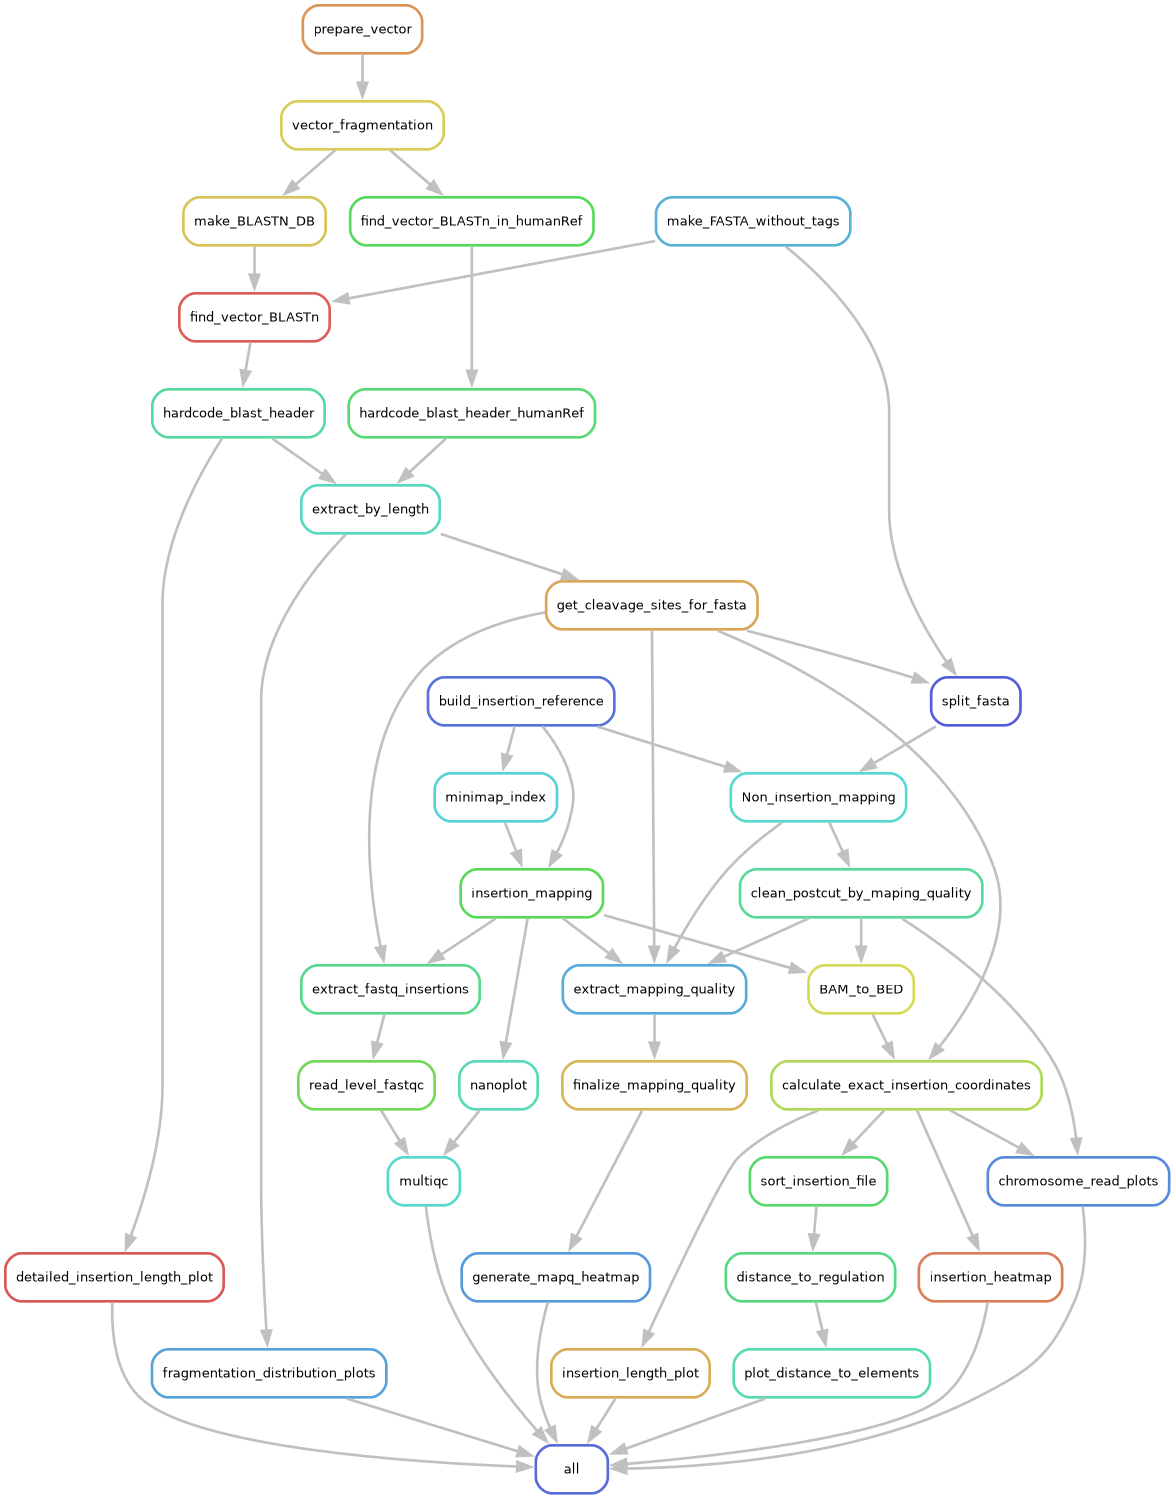
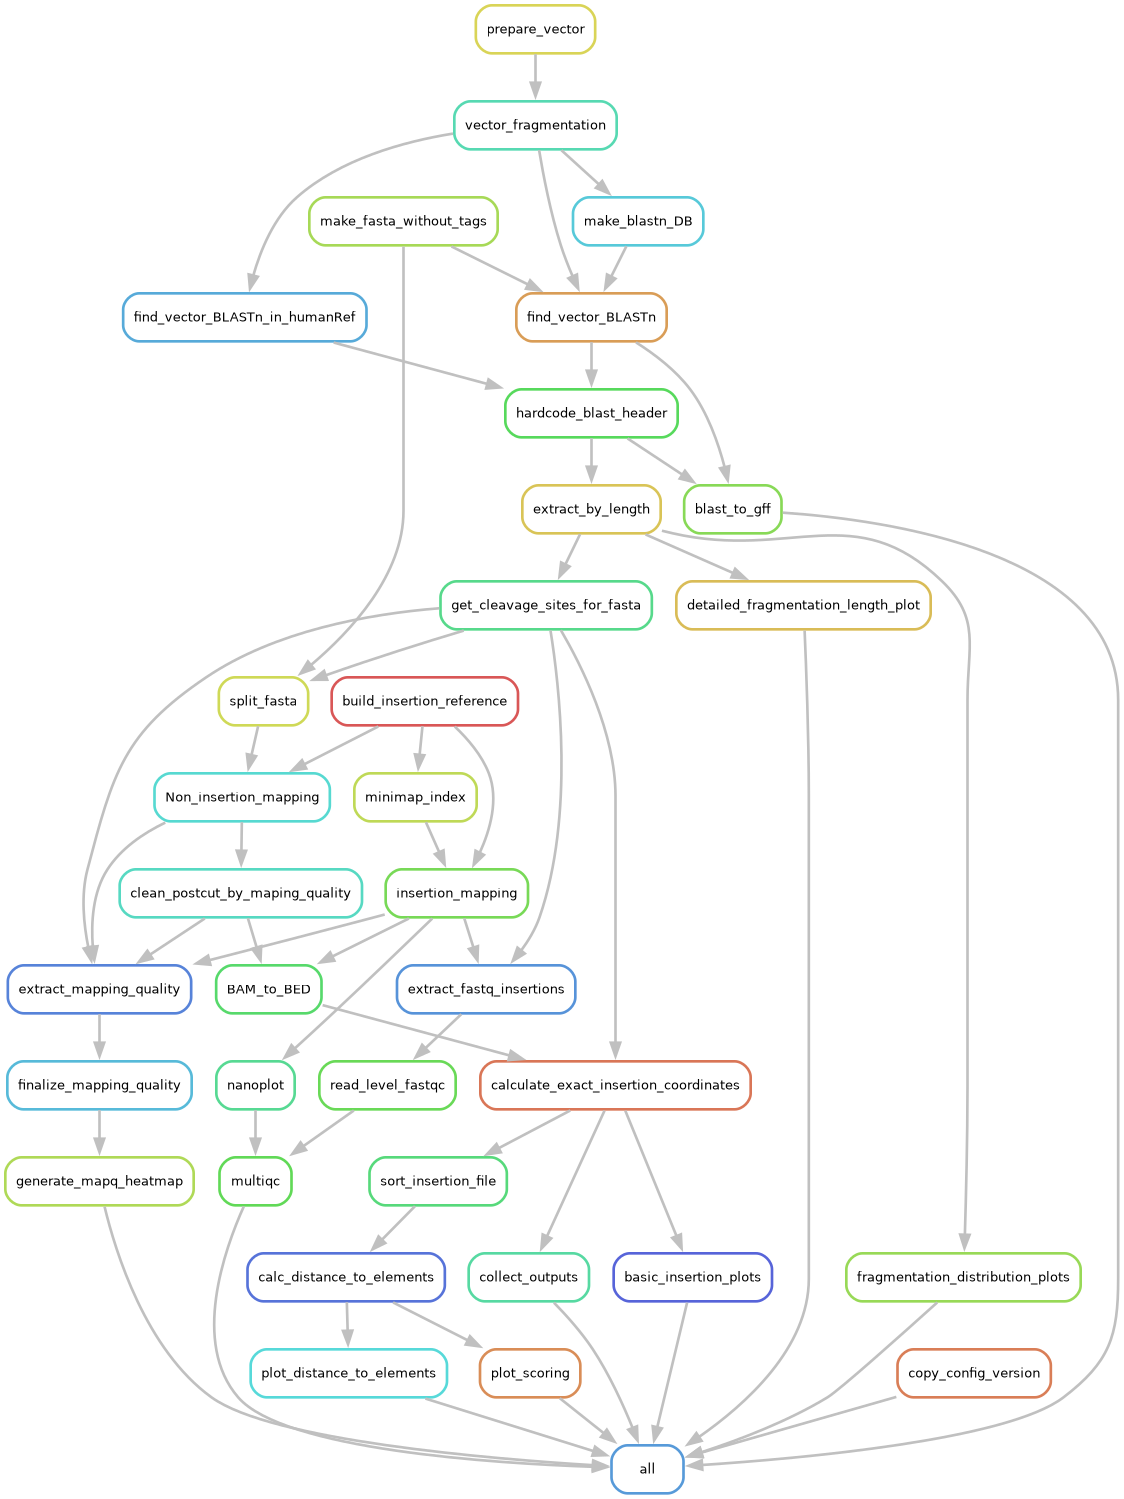
addiitons to the config and readme

Changed region(s): [[0.0, 0.0, 0.9964, 1.0], [0.5916, 0.491, 0.6228, 0.5217]]

diff --git a/workflow/scripts/VIS_helper_functions.py b/workflow/scripts/VIS_helper_functions.py
@@ -263,8 +263,8 @@ def split_fasta_by_borders(border_dict, fasta, mode, outfasta, outvector, logfil
                             print(record_seq_new)
                             record_id_new = str(record_id)+ '_Buffer'+str(len(buffer))+'Insertion'
                             output_file.write(">"+str(record_id_new)+"\n"+str(record_seq_new) + "\n")
-                        elif mode == "Separated":
-                            print("Separated mode selected: Insertion sequences are cut from the read and the read is split at the borders.")
+                        elif mode == "Split":
+                            print("Split mode selected: Insertion sequences are cut from the read and the read is split at the borders.")
                             print("Insertion coordinates will be reported as surrounding read coordinates.")
                             #this part only if the non-insertion fragments should NOT be combined
                             for i,entry in enumerate(record_list):

diff --git a/README.md b/README.md
@@ -1,0 +1,278 @@
+# Logo with the name
+#github action buttons via snakemake unit tests
+# Vector Insertion Site Detection Pipeline
+> This is a snakemake workflow for the guided-search for long insertion sequences (e.g. CAR vectors) in long-read DNA Sequencing data.
+
+## Table of Contents
+* [General Info](#general-information)
+* [Workflow](#workflow)
+* [Setup](#setup)
+    * [Pipeline](#Pipeline)
+    * [Config](#Config)
+* [Usage](#usage)
+* [Tutorial](#tutorial)
+* [Contact](#contact)
+* [License](#license)
+
+## General Information
+- Biological vector systems are widely used for the targeted expression of genes in biomedical research and therapies (e.g. CAR T cell therapy)
+- While insertion sites of different gene delivery systems are classified, there is no concise way to look for the inserted vector sequence and its exact sequence after the transduction
+- This pipeline fragments the target sequence of interest into n-sized bins and systematically locates consecutive and isolated vector fragments and their orientation in the long DNA reads
+- Furthermore, the insertion sites are located with respect to the reference genome of the underlying organism and, upon providing of annotations of the genome, closeness to transcription factors, genes, or other data sources can be used to annotate each insertion site
+- Especially CAR T cell therapy can benefit from such a detailed approach, since the T cells are introduced back into the patients after the transduction and potentially dangerous clones are thereby introduced to the patient. This might be one explanantion of the recent case reports regarding secondary T cell Lymphomas following CAR T cell therapy.
+
+## Workflow
+- Overview (create it in a more universal manner though!) + DAG
+- Illustration of the workflow
+
+---
+
+## Setup
+
+## Pipeline
+
+This snakemake workflow combines multiple standalone tools in a directed fashion. 
+
+Clone the github repo to your local machine via 
+
+    git clone https://github.com/YOUR-USERNAME/YOUR-REPOSITORY
+
+Then, proceed by one of the two ways: 
+
+### 1. Classic (snakemake best practices)
+
+The pipeline contains the option for an [integrated package management](https://snakemake.readthedocs.io/en/latest/snakefiles/deployment.html#integrated-package-management) functionality. 
+In other words, the workflow will be installing all required packages for each rule as needed.
+This means that we only need to install a lightweight environment ourselves to run the pipeline locally.
+
+**Note:** While the classical way of setting up the pipeline has the advantage of being lightweight in its installation of packagages, the actuall running of the pipeline will be a little more complicated and might require additional modifications depending on your local setup of `conda`/`mamba`. For this reason, we also provide a convenient alternative which works by installing all packages needed for the pipeline in one environment (see below).
+
+Create the minimal environment for running the pipeline via 
+    
+    mamba env create --name VIS_minimal -f workflow/envs/VIS_minimal_env.yml
+
+**Note:** It is also possible to use `conda` for the creation of the environment (`mamba` is way faster though). 
+
+Then, activate the environment via 
+
+    conda activate VIS_minimal 
+ 
+### 2. Alternative
+
+Snakemake also allows us to use a single environment throughout the whole pipeline. We can also make use of that to create a convenient alternative for the setup of the pipeline. Depending on your system, this might make the downsteam execution of the workflow overall more convenient. 
+
+Create the full environment for running the pipeline via
+    
+    mamba env create --name VIS_full -f workflow/envs/VIS_full_env.yml
+
+**Note:** It is also possible to use `conda` for the creation of the environment (`mamba` is way faster though). Since we are installing more dependencies here, the use of `mamba` is highly encouraged.
+
+Then, activate the environment via 
+
+    conda activate VIS_full 
+
+## Config
+The configuration file is needed to specify which information and files the pipeline needs and where it can find them. You can find the .yaml config used in the tutorial in `config/config.yaml`. A description of the inputs can be seen below. 
+
+Most of the required inputs are mandatory, except for multiple addiitonal BED fiels for the annotation of the identified insertions and the `blastn_db`. 
+The different threshholds are described in detail in the tutorial for this workflow. 
+
+| **Parameter**            | **Value**                                                                                      | **Comments**                                                                                              |
+|---------------------------|------------------------------------------------------------------------------------------------|----------------------------------------------------------------------------------------------------------|
+| `experiment`             | `tutorial`                                                                                  | Name of the experiment.                                                                                 |
+| `samples`                | `S1: /path/to/S1.bam` <br> `S2: /path/to/S2.bam` | Paths to BAM files for the samples. Each sample should have its file path defined.                      |
+| `processing_dir`         | `/path/to/outdir`                                                                           | Directory where output files will be saved.                                                             |
+| `vector_fasta`           | `/path/to/vectorseq.fa`                                                      | Path to the insertion sequence file in FASTA format.                                                       |
+| `blastn_db`              | `/path/to/blastNdb`                                                             | BLASTN database for reference nucleotides to check matches with the insertion sequence. If the insertion sequence contains reference genome parts, the matches here are needed as a baseline.                          |
+| `splitmode`              | `Buffer`, `Split`, or `Join`                                                                                      | Mode used for processing reads based on the insertion: <ul><li><strong>Buffer:</strong> Replaces the insertion with "N" and retains the full length of each read. Recommended for the most accurate insertion location (CIGAR-based).</li><li><strong>Split:</strong> Cuts the insertion from the read and creates individual reads from the remaining sequence. The locations of the insertions are reported as the locations of each of the individual reads. Recommended for exploratory search for insertions that might fuse otherwise non-neighboring parts of the genome together.</li><li><strong>Join:</strong> Cuts the insertion from the read and joins the remaining sequence together. The locations of the insertions are reported as the location of the joined read. Recommended for debugging of otherwise unmappable reads.</li></ul> |
+| `fragment_size`          | `100`                                                                                         | Size of fragments for splitting sequences. Fragments of this size will be used to construct the BLASTN database of the insertion sequence.                                                              |
+| `MinLength`              | `1`                                                                                           | Minimum read length for BLASTN matches processing.                                                      |
+| `MAPQ`                   | `10`                                                                                          | Minimum mapping quality score for reads.                                               |
+| `MinInsertionLength`     | `500`                                                                                         | Minimum length of insertions to be detected. This is dependent on the respective insertion and potentially its matches with the reference genome.                                                            |
+| `ref_genome_ctrl`        | `/path/to/ref.fa`                                                     | Reference genome file in FASTA format.                                                      |
+| `ucsc_Genes`             | `/path/to/annotation.bed`                 | Annotation file in [BED6 format](https://samtools.github.io/hts-specs/BEDv1.pdf).                                                          |
+| `detection`              | `rules/detection.smk`                                                                         | Snakemake rule file for the detection and localization of insertions.                                                                      |
+| `quality_control`        | `rules/qc.smk`                                                                                | Snakemake rule file for the quality control of reads and insertions.                                                                |
+| `functional_genomics`    | `rules/functional_genomics.smk`                                                               | Snakemake rule file for the functional annotation of insertions on the genome level.                                                            |
+
+## Usage
+
+After the setup, you are ready to run the pipeline on your specific files and use-cases. Generally, the execution follows the same principles as defined in the [snakemake documentation](https://snakemake.readthedocs.io/en/stable/). However, here is a quick overview about the basic commands for execution, since they slightly differ dependent on the mode of the setup: 
+
+In general, the classic setup needs to be run using `--use-conda` to tell snakemake to build and use the rule-specific envs. 
+
+Exemplarily for both, a dry-run can be executed as follows:
+
+```Classic setup
+snakemake --use-conda -n
+```
+
+**Note:** If you run into problems with `mamba` or `conda` not being able to create the rule-specific environemnts on to go, check out [this](https://stackoverflow.com/questions/69001097/conda-4-10-3-and-snakemake-5-conda-exe-problem) as a starting point. 
+
+```Alternative setup
+snakemake -n
+```
+
+To illustrate these rules in a directed acyclic graph, run:
+
+    snakemake --forceall --rulegraph | dot -Tpng > dag.png
+
+To run the full pipeline using 20 cores and automatically generate a report about the run afterwards, run: 
+
+    snakemake --cores 20 && snakemake --report
+
+This will, however, fail since the sample names defined in the default config are dummies.
+
+## Tutorial
+
+A detailed description and an exemplary run with simulated data can be found [here]().
+
+## Recommendations
+
+- Run the pipeline iteratively first on a smaller subset of your data. It is very likely that you need to change the thresholds for the fragment size and MinInsertioNlength multiple times before you figure out the best configuration for your dataset.
+
+## Contact
+Created by []() - feel free to contact me!
+
+## License
+This project is available under the [... License]().
+
+---
+
+# Tutorial (will be moved to ./docs/tutorial at a later point)
+
+## Setup
+Either 
+
+Clone the repository and create a new working environment: 
+
+`git clone https://github.com/yourusername/VIS_pipeline.git`
+   
+`conda env create -f VIS_env.yml`
+   
+`conda activate VIS_pipeline
+
+Also make sure that you have [blastn] () and [fastqc] () installed and executable in the previously generated environemnt.
+
+Or
+
+make use of the the modularization character of the pipeline:
+
+`git clone the repository and and conda env create -f VIS_snakemake_base_env.yml´
+
+Activate the environment and dry run it via 
+
+`snakemake --cores 5  --use-conda -n`
+
+In case your conda frontend is conda and not mamba, use it as:
+
+`snakemake --cores 5  --use-conda --conda-frontend conda -n`
+
+For each rule, the pipeline as a dedicated env assigned, if it requires anything that is not already present in VIS_basic_env. 
+On the first execution of the pipeline, the requirements of each env will be checked and if needed, packages will be installed. 
+
+For convenience, it is also possible to initialize the full environment once and run the pipeline from within by using  
+
+`snakemake --cores 5 -n`
+
+For clarity, we will use this type of execution for the rest of the tutorial.
+
+## Collect the reference files
+
+To now execute the pipeline for the first time, we need to make sure all dependencies required in the config are defined. Open the `config.yml` file and add the missing paths.
+
+For a minimum reproducible example, you can leave the config as it is for now. 
+samples:
+    Simulated1: "Simulated.bam"
+
+
+
+## Quick start
+
+`snakemake -n`
+
+To illustrate these rules in a directed acyclic graph, run:
+
+`snakemake --forceall --rulegraph | dot -Tpng > dag.png`
+
+To run the full pipeline using 20 cores and automatically generate a report about the run afterwards, run: 
+`snakemake --cores 20 && snakemake --report`
+
+## General usage
+
+### Running the pipeline
+#### Modify config
+#### Run 
+ After we have installed everything, it's time to check what the pipeline will be doing after the execution. Let's look at a dry-run of the workflow:
+ 
+ `snakemake -n`
+ 
+Snakemake will run all of these rules on our provided files. Let's check the DAG again to see whether we can understand the route that snakemake will take:
+
+snakemake --forceall --rulegraph | dot -Tpng > dag.png`
+
+Okay, that's enough preparation. Let's run it!
+
+The execution time of the pipeline depends on the amount of physical cores that you can allocate to the workflow. Let's choose a low number for now:
+
+`snakemake --cores 5 && snakemake --report`
+
+Error handling:
+You can now follow the different rules in your terminal window. If you encounter errors, make sure to double-check your initial input. If your error is for a specific rule, check the detailed documentation for this step in ./log/rulename
+
+Other general debugging ressources for everything related to snakemake can be found [here] () or [here] ().
+
+If you see the following, the pipeline was executed successfully.
+img
+
+So let's take a look at the output. 
+
+### Inspecting the output
+#### check report
+
+Since we ran the pipeline with `&& snakemake --report`, we have also automatically generated a general report for the workflow. 
+Take a look at the Statistics in report.html. The mapping rules clearly took the longest to finish.
+
+Throughout the pipeline, some simple plots are also generated to give you a glimpse of what your insertions look like. 
+Navigate to the results tab and take a look at the detected lengths of your insertions. Some of the lengths are clearly longer than others. It looks like some of the reads only contained parts of the insertion. 
+
+To get an idea about quality control metrics, navigate to the multiqc.html report in the results tab. 
+
+#### check final output files
+
+maybe run `tree´ for the directory structure
+
+
+Next to this overview, there are also other files generated that can subsequently be used for further investigations. The directory structure provided will pre-sort the outputs into intermediate and final output. Navigate to the final output/final/localization first.
+
+Here, the most interesting one, of course, is the sample-specific BED file in containing the genomic positions of the insertions. This is also used for the annotation of each insertion (see functional genomics).
+
+In output/final/qc, the subfolder fragmentation contains detailed information about each sample's fragmented insertion coverage, i.e. which parts of the insertion sequence was detected in the reads, what are the consecutive intervals for each read's insertion, and if there were also parts of the insertions detected, that match the human reference genome. In summary, this output gives you an idea about the effectiveness of the fragmentation of your inserted sequence for the detection of the read. Depending on the size of the insertion, you might want to run the analysis pipeline again and change the fragment-length in the config to further increase your level of detail.   
+
+In the output/intermediate folder, you can find various subdirectories with intermediate files created during the pipeline run. Most of them are self-explanatory when looking at the workflow of the pipeline. To make things easier, an illustration about which files are created were in the DAG, please see below.  
+
+Congratulations, you have finished the quick start using simulated data! If you want to unleash the full power of the pipeline, feel free to continue with the advanced usage tutorial below.
+
+
+### functional genomics
+
+
+## Adcanced usage
+#### Custom thresholds
+#### Custom insertion annotations
+#### Developer mode
+- Pre-select output
+- Separated or Join functionality
+- Add custom rules
+
+
+to do:
+
+Create minimum reproducible example:
+- 2 simulated samples with 10 insertions each; some +, some -, randomly spreach across the reference genome -> make the files small)
+- create small lightweight gtf gene reference
+- create small lightweight blastndb
+- only use chromosome 1 for example for know: randomly smaple reads from chr1 and merge 10 insertions in there (+ and -)
+- also add chr1 hg38.fa then
+
+
